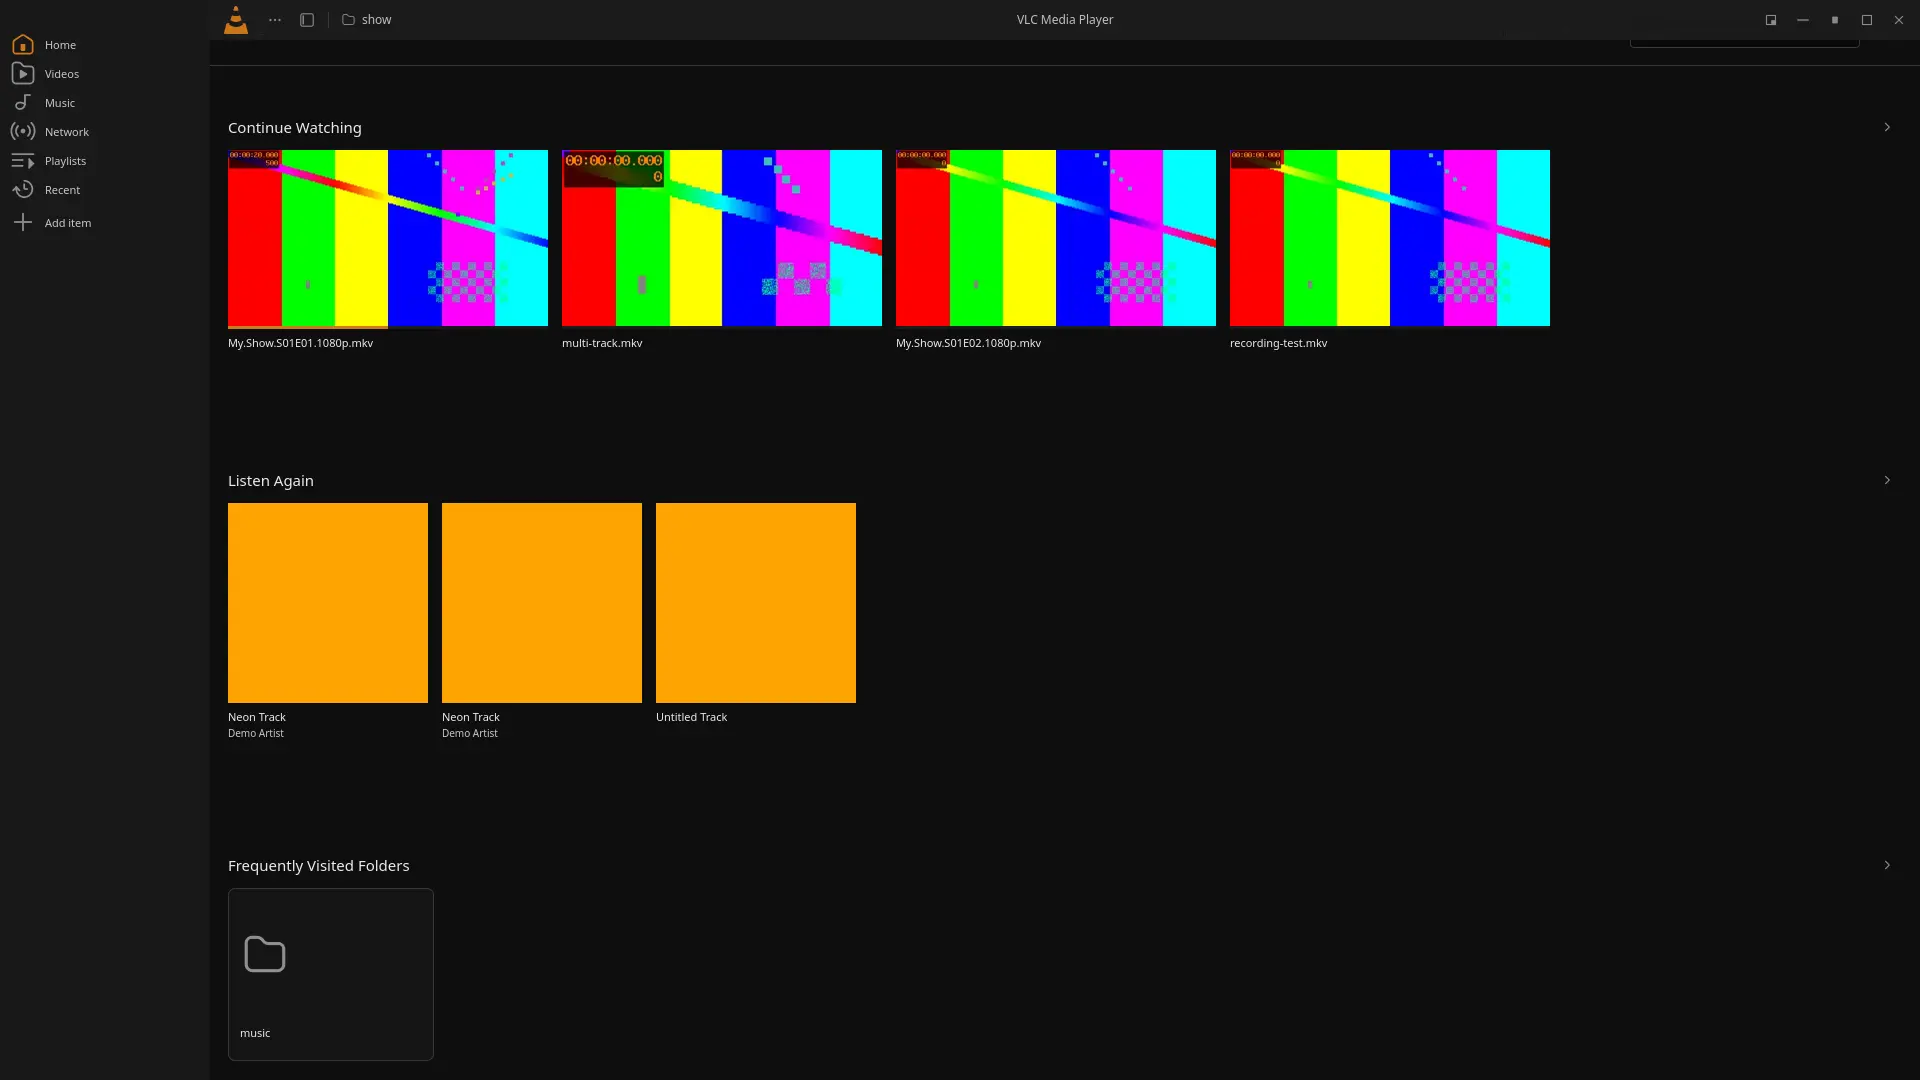
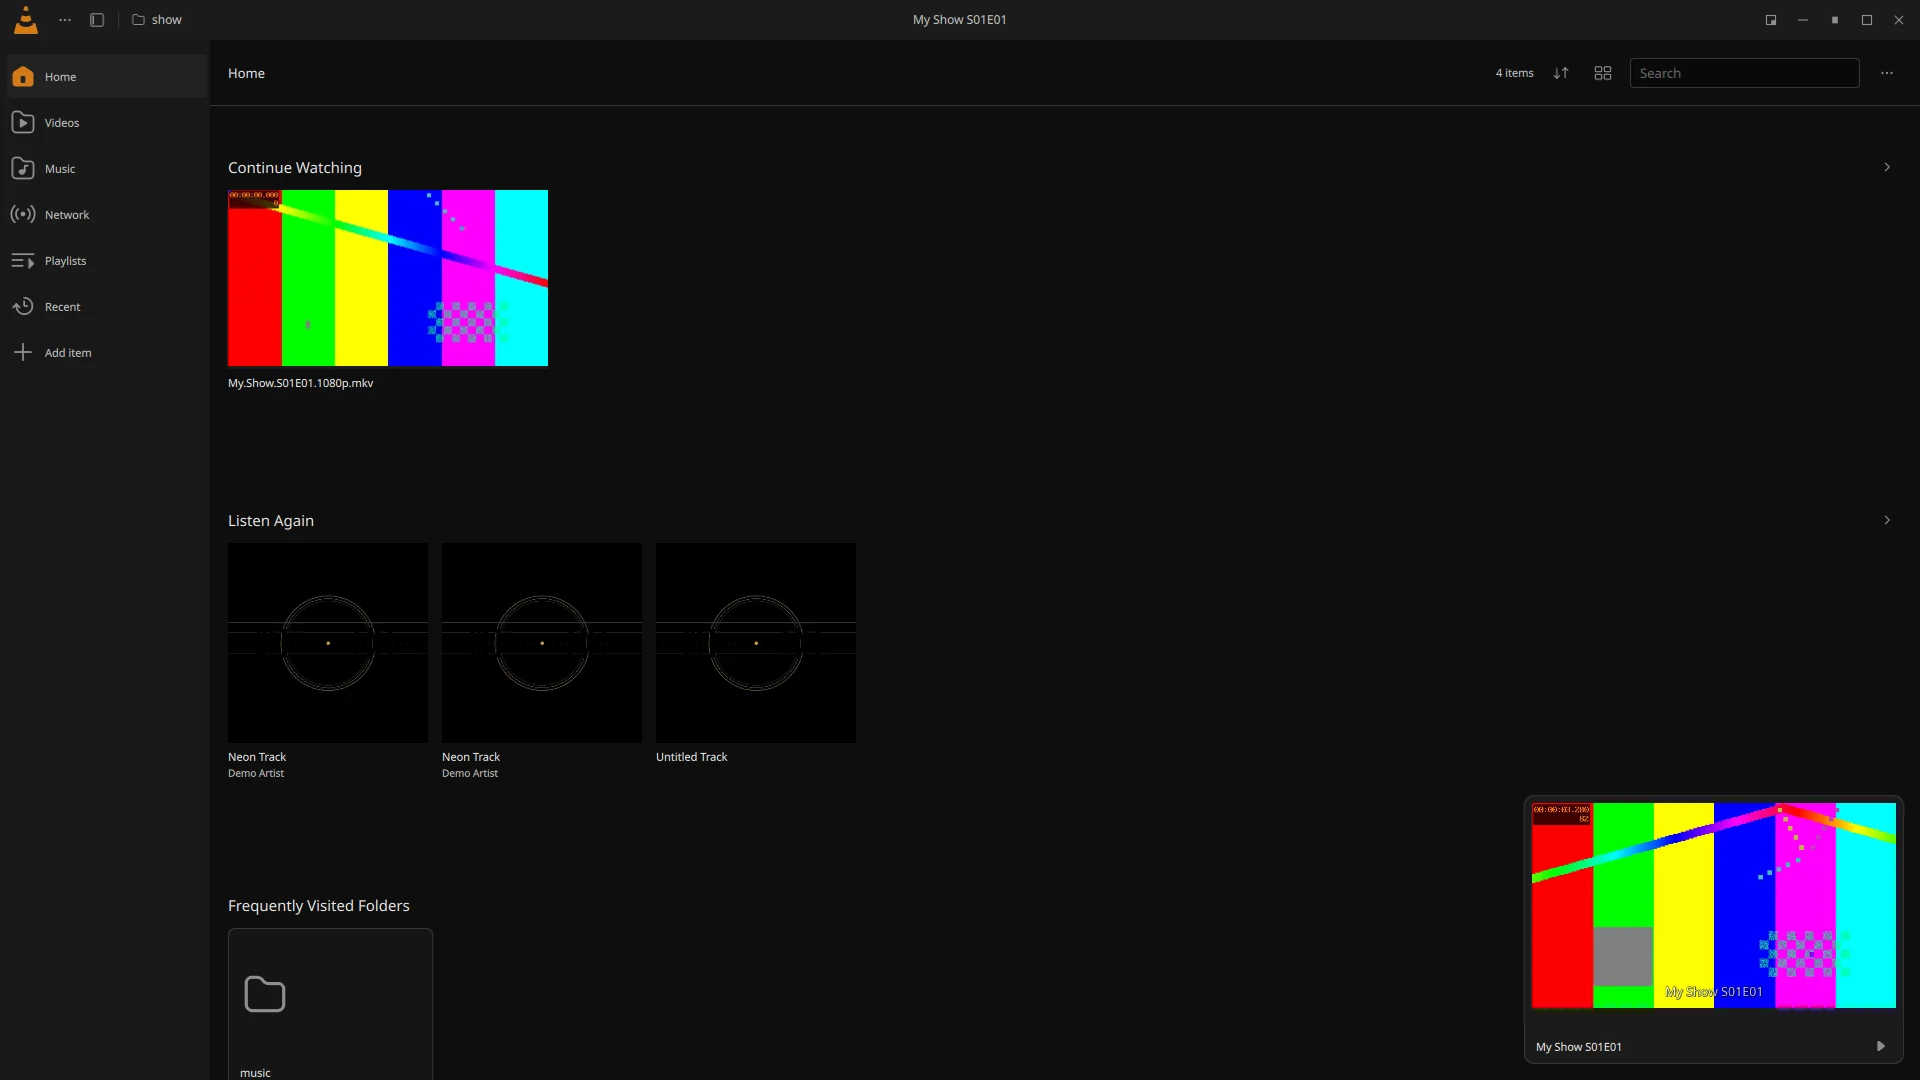
Refresh Home dashboard comparison capture

diff --git a/docs/figma-parity.md b/docs/figma-parity.md
@@ -103,6 +103,8 @@ Music side-pane follow-up (2026-10-24): a direct `browser` comparison of the cop
 
 Home side-pane polish (2026-10-24): a normalized side-by-side capture found the Home toolbar controls 10 px too far left, folder/playlist SVGs enlarging their row layout beyond the intended size, and section spacing drifting vertically through the page. The toolbar right inset is now 17 px; folder and playlist icons use a 25 px layout box with adjusted spacing so labels begin at x=62 like Figma. Section-specific top and bottom margins now align the headings and first rows for Continue Watching, Listen Again, Frequently Visited Folders and Frequently Visited Playlists to within 1 px in the 1920×1080 comparison. [`home-sidebar.png`](screenshots/home-sidebar.png) has been refreshed from the seeded local fixture; its generated video thumbnails and demo audio artwork differ from Figma's sample media.
 
+Home dashboard capture follow-up (2026-10-24): rebuilt and captured the full Home route at 1920×1080 after the rail visibility fix. The fresh [`home.webp`](screenshots/home.webp) shows the expanded 210 px rail, Home shelves, active video and lower-right mini-player. A focused VLC run confirms the Home dashboard content occupies 1710 px beside the rail; opening Home or Music as a side pane switches to a 50 px rail and 377 px panel, and returning to the player hides the rail. The captured color-bar videos and tagged demo tracks are fixtures; the like-for-like Figma screenshot comparison remains open.
+
 Side-pane header and Music category alignment (2026-10-24): the Back/Forward glyphs were rendered at 18 px although the Figma header uses the 24 px arrow assets; they now render at 24 px with per-header offsets aligned against Home, Playlists, Music and Videos crops, leaving title positions unchanged. A direct Music categories comparison also found the Add baseline 2 px high and category rows 2 px high. Adjusting the Add inset and a 1 px category viewport inset now aligns both while retaining the 44 px category rhythm. The Home, Playlists, Music categories and Videos folder captures were regenerated.
 
 Collapsed navigation-rail follow-up (2026-10-24): the previous 26 px buttons packed the seven entries at 29 px intervals, visibly tighter than Figma. The collapsed rail now uses 44 px rows with 2 px gaps and no spacer before Add; its 1920×1080 centers are `64/110/156/202/248/294/340`, matching the prototype. Row height shrinks with the available rail height so all seven entries remain visible at the 560×340 minimum window; the offscreen capture measured 41 px rows and centers `57/100/143/186/229/272/315`. Expanded-rail geometry is unchanged.

diff --git a/README.md b/README.md
@@ -152,7 +152,7 @@ episodes. A shortcut to search OpenSubtitles for the current title is included.
 > Player and media screenshots generally use the [Sintel](https://durian.blender.org/)
 > trailer, © Blender Foundation, licensed CC BY 3.0. The current
 > `player.webp`, `customize.webp` and `video-effects-flower.webp` use the public [MDN CC0 flower video](https://interactive-examples.mdn.mozilla.net/media/cc0-videos/flower.mp4).
-> `home-sidebar.png` uses generated color-bar video fixtures and tagged demo audio; its media artwork is test content, not a Figma export.
+> `home.webp` and `home-sidebar.png` use generated color-bar video fixtures and tagged demo audio; their media artwork is test content, not a Figma export.
 > `scripts/screenshots.sh` regenerates captures with Sintel; the preference
 > screens come from `scripts/smoke-test.sh`.
 
